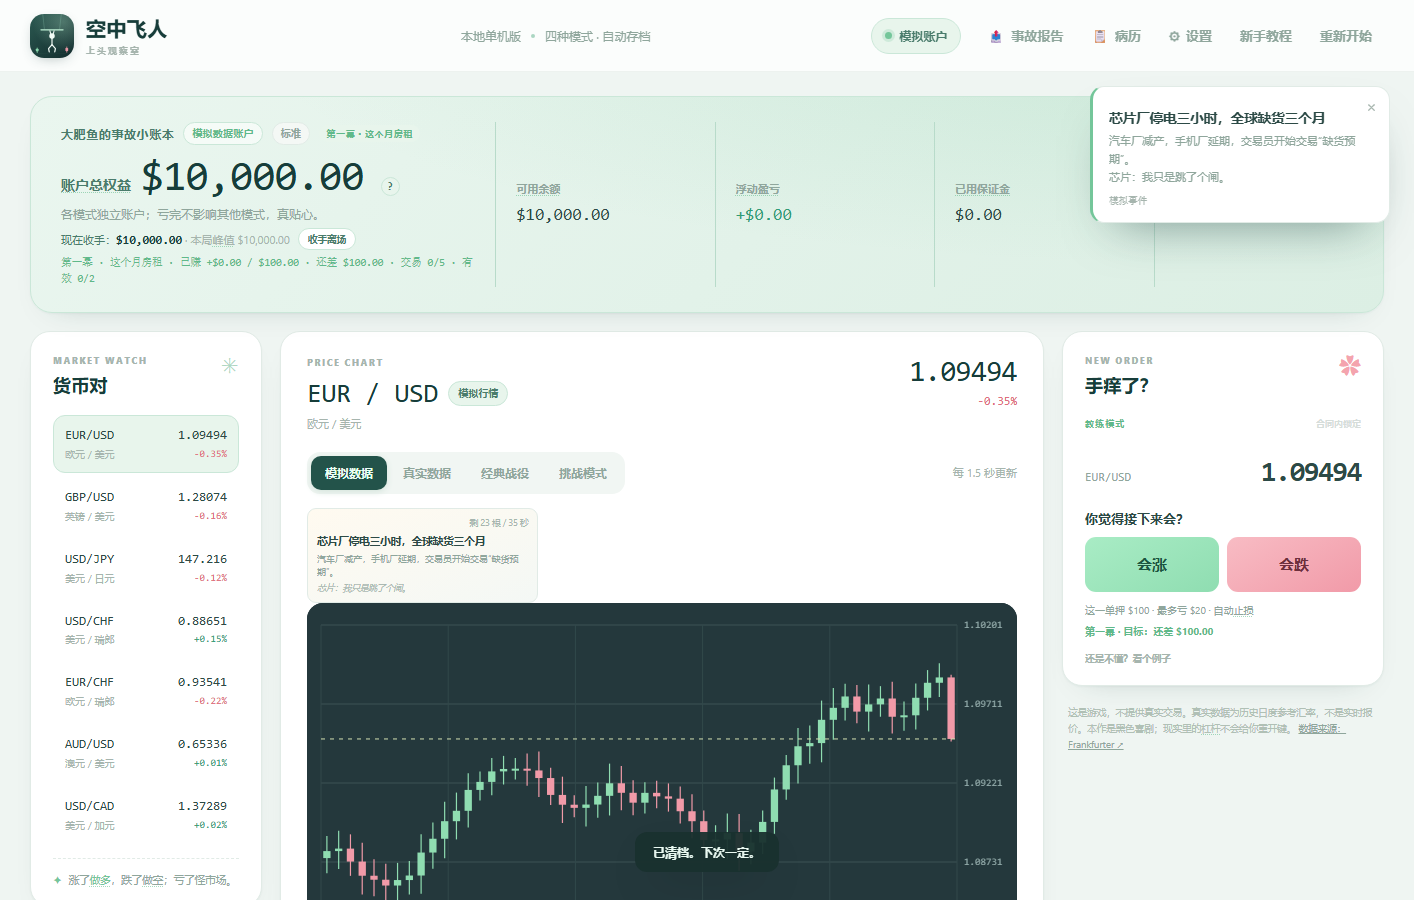
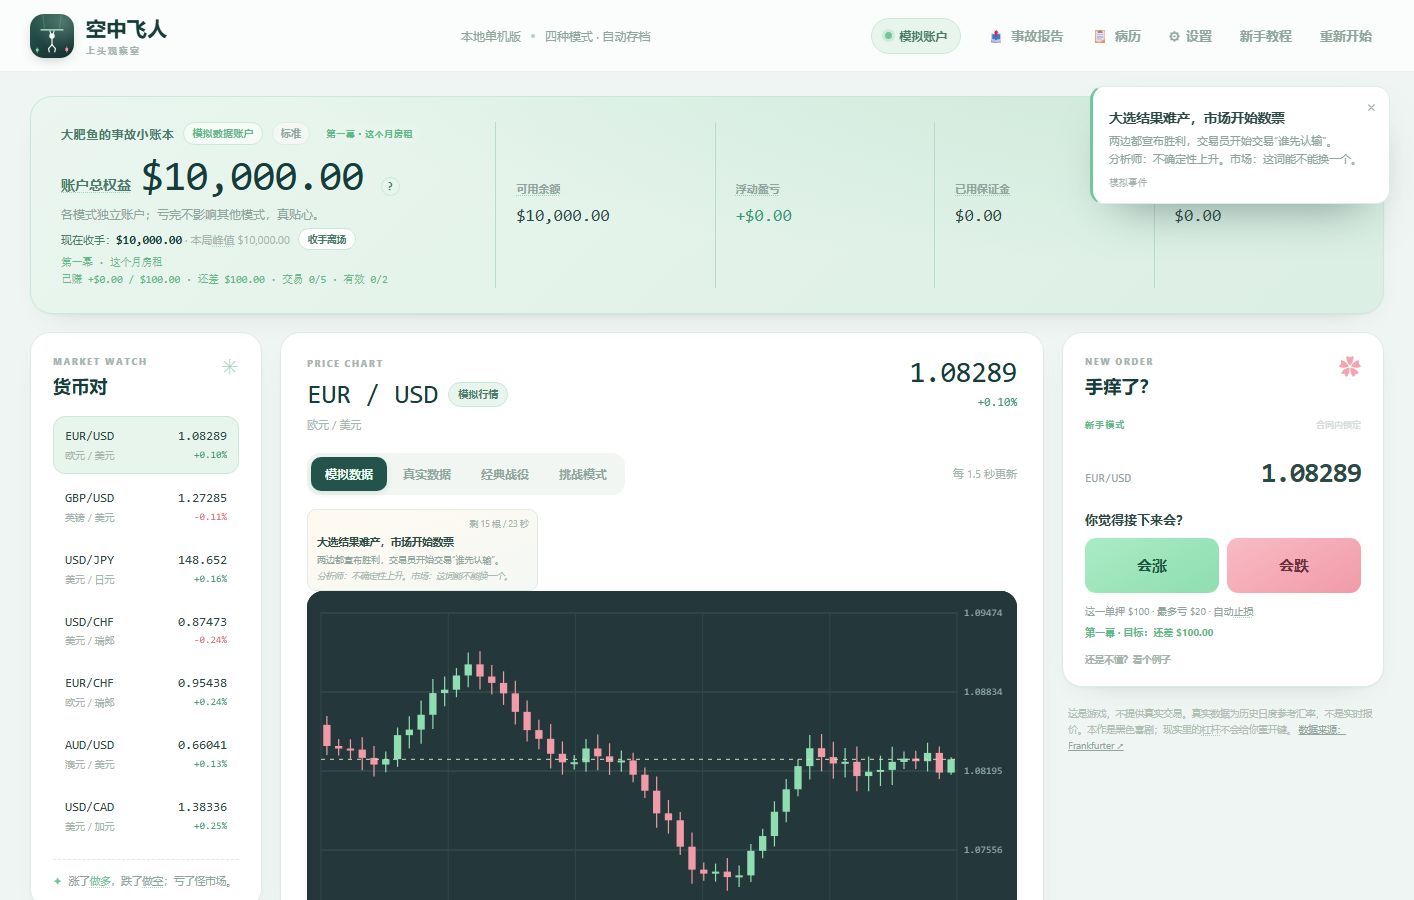
Add novice and hard difficulty modes with separate target curves

diff --git a/ui.js b/ui.js
@@ -989,8 +989,8 @@
     const styles = new Set();
     standard.forEach(item => (item.playstyle || []).forEach(tag => { if (tag.id) styles.add(tag.id); }));
     $('caseStats').textContent = standard.length
-      ? `标准病历 ${standard.length} · 教练局 ${coach.length} · 最佳评级 ${best || '—'} · S ${sCount} 次 · 合同完成 ${completed} 次 · 流派 ${styles.size}/${STYLE_TOTAL}`
-      : '还没有标准病历。教练局不计入最佳评级和流派收集。';
+      ? `困难病历 ${standard.length} · 新手局 ${coach.length} · 最佳评级 ${best || '—'} · S ${sCount} 次 · 合同完成 ${completed} 次 · 流派 ${styles.size}/${STYLE_TOTAL}`
+      : '还没有困难病历。新手局不计入最佳评级和流派收集。';
     if ($('caseCount')) $('caseCount').textContent = all.length;
     [...$('casesFilter').children].forEach(btn => btn.classList.toggle('active', btn.dataset.mode === casesFilter));
     $('casesClear').disabled = all.length === 0;
@@ -1011,7 +1011,7 @@
       card.tabIndex = 0;
       card.innerHTML = `<div class="case-top"><span>${formatCaseDate(item.date)}</span><span class="case-badge ${item.reason || 'cashout'}">${reason}</span></div>
         <div class="case-title"><span>${mode} · ${safety}</span><em class="${item.equity >= 0 ? 'positive' : 'negative'}">${D.money(item.equity)}</em></div>
-        <div class="case-meta">峰值 ${D.money(item.peak)} · 回撤 ${D.money(item.drawdown)} · 诊断：${item.diagnosis || '未记录'}${item.contractTitle ? ` · ${item.contractTitle}${item.contractDone ? ' ✓' : ''}` : ''}${item.environmentTitle ? ` · 环境：${item.environmentTitle}` : ''}${item.coachMode ? ' · 教练局' : ''}${item.playstyle?.length ? ` · 流派：${item.playstyle.map(tag => tag.label).join(' / ')}` : ''}${item.endingTitle ? ` · 结局：${item.endingTitle}` : ''}</div>
+        <div class="case-meta">峰值 ${D.money(item.peak)} · 回撤 ${D.money(item.drawdown)} · 诊断：${item.diagnosis || '未记录'}${item.contractTitle ? ` · ${item.contractTitle}${item.contractDone ? ' ✓' : ''}` : ''}${item.environmentTitle ? ` · 环境：${item.environmentTitle}` : ''}${item.coachMode ? ' · 新手局' : ''}${item.playstyle?.length ? ` · 流派：${item.playstyle.map(tag => tag.label).join(' / ')}` : ''}${item.endingTitle ? ` · 结局：${item.endingTitle}` : ''}</div>
         <div class="case-detail"></div>`;
       const eventLines = (item.events || []).map(event => {
         const effects = [];
@@ -1112,7 +1112,9 @@
     if (!contracts.length) return;
     contractIndex = Math.max(0, Math.min(contracts.length - 1, contractIndex));
     const item = contracts[contractIndex];
-    const goalText = E.settings.coachMode && item.coachGoalText ? item.coachGoalText : item.goalText;
+    const goalText = E.settings.coachMode
+      ? (item.coachGoalText || item.goalText)
+      : (item.hardGoalText || item.goalText);
     const card = document.createElement('div');
     card.className = `contract-card ${item.tone || ''}`;
     card.innerHTML = `<span class="contract-kicker">${item.kicker}</span>
@@ -1249,10 +1251,11 @@
     (D.ENVIRONMENTS || []).forEach(env => {
       let targetText = '';
       if (base.goalType === 'profit') {
-        targetText = `目标：净赚 ${D.money(Math.round((base.targetProfit || 0) * env.targetMultiplier))}`;
+        const baseTarget = base.hardTargetProfit ?? base.targetProfit ?? 0;
+        targetText = `目标：净赚 ${D.money(Math.round(baseTarget * env.targetMultiplier))}`;
       } else if (base.goalType === 'debt') {
         const startEquity = 10000 - (base.startDebt || 0);
-        const target = Math.round(startEquity + ((base.targetEquity || startEquity) - startEquity) * env.targetMultiplier);
+        const target = Math.round(startEquity + ((base.hardTargetEquity ?? base.targetEquity ?? startEquity) - startEquity) * env.targetMultiplier);
         targetText = `目标：权益 ${D.money(target)}`;
       }
       const card = document.createElement('div');
@@ -1536,12 +1539,16 @@
     const s = E.settings;
     $('nicknameInput').value = s.nickname || '大肥鱼';
     $('advancedToggle').checked = !!s.advancedTrading;
-    $('coachToggle').checked = !!s.coachMode;
     const settingsLocked = coachLocked();
-    $('coachToggle').disabled = settingsLocked;
+    [...$('gameModeSeg').children].forEach(btn => {
+      btn.classList.toggle('active', btn.dataset.gameMode === (s.coachMode ? 'novice' : 'hard'));
+      btn.disabled = settingsLocked;
+    });
     $('coachSettingHint').textContent = settingsLocked
       ? '合同进行中已锁定；收手或结束后再切换'
-      : '只保留涨/跌，自动押 $100、5×，自动止损止盈';
+      : s.coachMode
+        ? '新手模式：只看涨/跌，固定 $100/5×，目标更低，跳过环境/商店'
+        : '困难模式：完整下单、环境、三幕、商店，合同目标更高';
     $('sfxToggle').checked = s.sfxOn;
     $('sfxVolume').value = s.sfxVol;
     $('musicToggle').checked = s.musicOn;
@@ -1899,15 +1906,18 @@
       renderOrder();
       toast(event.target.checked ? '进阶交易已开启：下单时可以填止损/止盈。' : '进阶交易已关闭。');
     });
-    $('coachToggle').addEventListener('change', event => {
+    $('gameModeSeg').addEventListener('click', event => {
+      const btn = event.target.closest('button[data-game-mode]');
+      if (!btn) return;
       if (coachLocked()) {
-        event.target.checked = !!E.settings.coachMode;
-        toast('合同进行中，教练模式已锁定。');
+        toast('合同进行中，难度模式已锁定；收手或结束后再切换。');
         return;
       }
-      E.saveSettings({ coachMode: event.target.checked });
+      const novice = btn.dataset.gameMode === 'novice';
+      E.saveSettings({ coachMode: novice });
       render();
-      toast(event.target.checked ? '教练模式已开启：只保留涨/跌。' : '已切回完整界面。');
+      renderSettingsControls();
+      toast(novice ? '已切换到新手模式。' : '已切换到困难模式。');
     });
     $('sfxToggle').addEventListener('change', event => {
       E.saveSettings({ sfxOn: event.target.checked });

diff --git a/index.html b/index.html
@@ -143,7 +143,7 @@
           <section class="panel order-panel">
             <div class="panel-heading"><div><span class="section-kicker">NEW ORDER</span><h2>手痒了？</h2></div><span class="order-decoration" aria-hidden="true">✿</span></div>
             <div id="coachOrder" class="coach-order hidden">
-              <div class="coach-head"><span>教练模式</span><button id="coachExit" class="text-button" type="button">切回完整界面</button></div>
+              <div class="coach-head"><span>新手模式</span><button id="coachExit" class="text-button" type="button">切回完整界面</button></div>
               <div class="coach-price-row"><span id="coachPair">EUR / USD</span><strong id="coachPrice">—</strong></div>
               <p id="coachQuestion" class="coach-question">你觉得接下来会？</p>
               <div class="coach-actions">
@@ -313,7 +313,7 @@
         <div class="settings-row"><div class="settings-label">音乐音量</div><input id="musicVolume" class="vol-slider" type="range" min="0" max="100" step="1"></div>
         <div class="settings-row settings-col"><div class="settings-label">导入本地音乐<small id="musicStatus">尚未导入音乐（音频仅保存在本机浏览器）</small></div><div class="music-actions"><label class="outline-button music-file-btn" for="musicFile">选择文件<input id="musicFile" type="file" accept="audio/*"></label><button id="musicPreviewBtn" class="outline-button" type="button">试听</button><button id="musicClearBtn" class="outline-button" type="button">清除</button></div></div>
         <hr class="settings-divider">
-        <div class="settings-row"><div class="settings-label">教练模式<small id="coachSettingHint">只保留涨/跌，自动押 $100、5×，自动止损止盈</small></div><label class="switch"><input id="coachToggle" type="checkbox"><span class="slider"></span></label></div>
+        <div class="settings-row"><div class="settings-label">难度模式<small id="coachSettingHint">新手模式：只看涨/跌，固定 $100/5×，目标更低</small></div><div class="seg-mini" id="gameModeSeg" role="group" aria-label="新手或困难模式"><button type="button" data-game-mode="novice">新手模式</button><button type="button" data-game-mode="hard">困难模式</button></div></div>
         <div class="settings-row"><div class="settings-label">市场新闻<small>跑马灯与滑入快讯，关闭后不再生成模拟新闻</small></div><label class="switch"><input id="newsToggle" type="checkbox"><span class="slider"></span></label></div>
         <div class="settings-row"><div class="settings-label">新闻频率</div><div class="seg-mini" id="newsFreqSeg" role="group" aria-label="新闻频率"><button type="button" data-freq="low">低</button><button type="button" data-freq="mid">中</button><button type="button" data-freq="high">高</button></div></div>
         <hr class="settings-divider">

diff --git a/data.js b/data.js
@@ -274,8 +274,8 @@
     { id: 'freefall', name: '自由落体', desc: '账户权益比初始资金少了 $100,000。', hint: '权益比 $10,000 低十万' },
     { id: 'retire', name: '金盆洗手', desc: '完成一次每日挑战并结算成绩。', hint: '开始并结束一次挑战' },
     { id: 'last-word', name: '最后一次', desc: '第 10 次按下「最后一把，回本就走」。', hint: '把「最后一次」按满十次' },
-    { id: 'grade-s', name: 'S 级事故', desc: '在标准模式拿到一次合同 S 评级。', hint: '完成合同，少交易、低回撤' },
-    { id: 'style-collector', name: '流派收集者', desc: '在病历里集齐 5 种不同的本局流派。', hint: '换几种打法完成标准合同' }
+    { id: 'grade-s', name: 'S 级事故', desc: '在困难模式拿到一次合同 S 评级。', hint: '完成合同，少交易、低回撤' },
+    { id: 'style-collector', name: '流派收集者', desc: '在病历里集齐 5 种不同的本局流派。', hint: '换几种打法完成困难合同' }
   ];
 
   const LOAN_MAX = 200000;
@@ -347,6 +347,7 @@
       goalText: '净赚 $500 后收手。', limitText: '最多 5 笔交易',
       specialText: '本合同不开放借款。', goalType: 'profit', targetProfit: 500, maxTrades: 5, noLoans: true,
       coachTargetProfit: 100, coachGoalText: '净赚 $100 后收手。',
+      hardTargetProfit: 800, hardGoalText: '净赚 $800 后收手。',
       events: [
         {
           id: 'rent-1', at: 1, act: 1, title: '房东第三次「在吗」',
@@ -380,6 +381,7 @@
       goalText: '还清 $3,000 贷款，并让权益达到 $7,500。', limitText: '最多 10 笔交易',
       specialText: '初始负债 $3,000；不开放新增借款。', goalType: 'debt', startDebt: 3000, targetEquity: 7500, maxTrades: 10, noLoans: true,
       coachTargetEquity: 7200, coachGoalText: '还清 $3,000 贷款，并让权益达到 $7,200。',
+      hardTargetEquity: 8000, hardGoalText: '还清 $3,000 贷款，并让权益达到 $8,000。',
       events: [
         {
           id: 'debt-1', at: 2, act: 1, title: '最后提醒',
@@ -413,6 +415,7 @@
       goalText: '净赚 $1,500 后收手。', limitText: '最多 8 笔交易',
       specialText: '初始现金 $6,000；不开放借款。', goalType: 'profit', startCash: 6000, targetProfit: 1500, maxTrades: 8, noLoans: true,
       coachTargetProfit: 200, coachGoalText: '净赚 $200 后收手。',
+      hardTargetProfit: 3000, hardGoalText: '净赚 $3,000 后收手。',
       events: [
         {
           id: 'layoff-1', at: 1, act: 1, title: 'HR 约谈',

diff --git a/engine.js b/engine.js
@@ -336,6 +336,10 @@
       if (baseConfig.coachTargetProfit != null) config.targetProfit = baseConfig.coachTargetProfit;
       if (baseConfig.coachTargetEquity != null) config.targetEquity = baseConfig.coachTargetEquity;
       if (baseConfig.coachGoalText) config.goalText = baseConfig.coachGoalText;
+    } else {
+      if (baseConfig.hardTargetProfit != null) config.targetProfit = baseConfig.hardTargetProfit;
+      if (baseConfig.hardTargetEquity != null) config.targetEquity = baseConfig.hardTargetEquity;
+      if (baseConfig.hardGoalText) config.goalText = baseConfig.hardGoalText;
     }
     state.cash = Number(config.startCash) || 10000;
     state.debt = 0;

diff --git a/README.md b/README.md
@@ -53,9 +53,9 @@ node server.js
 
 ![新手练习](screenshots/onboarding-practice.png)
 
-## 教练模式
+## 新手模式（教练模式）
 
-默认开启。只保留一个决定：
+默认进入新手模式。只保留一个决定：
 
 > 你觉得会涨，还是会跌？
 
@@ -64,19 +64,27 @@ node server.js
 - 自动止盈：赚约 $40 落袋；
 - 不显示保证金、杠杆、名义仓位、手续费、借款、持仓表；
 - 房租/还债/裁员的目标降为 $100 / $7,200 权益 / $200；
-- 合同开始后教练模式锁定，不能中途切回完整界面换工具；
-- 点「切回完整界面」或设置里的开关，可以恢复完整下单区。
-
-教练模式不改变市场规则，只是把第一次游玩的认知负担降下来。
-
-- 合同内教练模式锁定，不能中途切回完整界面；
+- 合同开始后新手模式锁定，不能中途切回完整界面换工具；
 - 教练结算只显示合同、结局和最终权益，不显示峰值、回撤和评级。
 
-![教练模式](screenshots/coach-mode.png)
+新手模式不改变市场规则，只是把第一次游玩的认知负担降下来。
 
-## 市场环境（标准模式）
+## 难度模式
 
-签合同后，标准模式会先选一个市场环境：
+设置里可以切换：
+
+| 模式 | 下单 | 环境 / 商店 | 合同目标 |
+|---|---|---|---|
+| 新手模式 | 只看涨/跌，固定 $100 / 5× | 跳过 | $100 / $7,200 / $200 |
+| 困难模式 | 完整保证金、杠杆、进阶交易 | 完整 | $800 / $8,000 / $3,000 |
+
+合同进行中不能切换难度；收手或结束后再回设置里改。
+
+![新手模式](screenshots/coach-mode.png)
+
+## 市场环境（困难模式）
+
+签合同后，困难模式会先选一个市场环境：
 
 | 环境 | 影响 | 额外规则 |
 |---|---|---|
@@ -84,7 +92,7 @@ node server.js
 | 央行周 | 重大事件更多、波动 ×1.25、合同目标 +15% | 完成合同后评级 +1 档 |
 | 传闻周 | 整活/传闻更多、波动 ×1.05、目标不变 | 第一件商店商品半价 |
 
-环境会影响新闻频率、行情波动和合同目标；教练模式跳过这一层。
+环境会影响新闻频率、行情波动和合同目标；新手模式跳过这一层。
 
 ![市场环境](screenshots/environment.png)
 
@@ -110,7 +118,7 @@ node server.js
 
 ## 幕间情报商店
 
-每幕事件结束后，标准模式会进入一次商店：
+每幕事件结束后，困难模式会进入一次商店：
 
 | 商品 | 价格 | 效果 |
 |---|---:|---|
@@ -120,7 +128,7 @@ node server.js
 
 可以买一件，也可以直接跳过。买东西会直接扣现金，所以会抬高完成合同的难度。
 
-教练模式跳过商店，保持只有涨/跌。
+新手模式跳过商店，保持只有涨/跌。
 
 ![幕间情报商店](screenshots/shop.png)
 
@@ -145,25 +153,25 @@ node server.js
 - **B / C**：未完成，但权益没有穿仓
 - **D**：破产
 
-流派只在标准模式结算，教练模式保持简单。
+流派只在困难模式结算，新手模式保持简单。
 
 ![本局流派](screenshots/playstyle.png)
 
 ## 病历统计与长期反馈
 
-病历库会汇总标准局：
+病历库会汇总困难局：
 
-- 标准病历数 / 教练局数；
+- 困难病历数 / 新手局数；
 - 最佳评级；
 - S 评级次数；
 - 合同完成次数；
 - 已收集流派 X / 7。
 
-只有模拟模式的标准局计入；教练局、真实数据、战役和每日挑战单独统计或排除。
+只有模拟模式的困难局计入；新手局、真实数据、战役和每日挑战单独统计或排除。
 
 新增两个长期成就：
 
-- **S 级事故**：标准模式拿到一次 S 评级；
+- **S 级事故**：困难模式拿到一次 S 评级；
 - **流派收集者**：集齐 5 种不同的本局流派。
 
 ## 怎么赚钱（大白话）
@@ -262,12 +270,12 @@ node server.js
 
 进入模拟模式后，先签一份合同，或者选自由模式。合同只在模拟模式生效。
 
-| 合同 | 目标 | 限制 |
-|---|---|---|
-| 自由模式 | 没有目标 | 规则照旧 |
-| 这个月房租 | 净赚 $500 | 最多 5 笔交易，不开放借款 |
-| 还清肥鱼信贷 | 还清 $3,000，并让权益达到 $7,500 | 最多 10 笔交易，初始负债 $3,000 |
-| 被裁员的第 30 天 | 净赚 $1,500 | 初始现金 $6,000，最多 8 笔交易，不开放借款 |
+| 合同 | 新手目标 | 困难目标 | 限制 |
+|---|---|---|---|
+| 自由模式 | 没有目标 | 没有目标 | 规则照旧 |
+| 这个月房租 | 净赚 $100 | 净赚 $800 | 最多 5 笔交易，不开放借款 |
+| 还清肥鱼信贷 | 权益 $7,200 | 权益 $8,000 | 最多 10 笔交易，初始负债 $3,000 |
+| 被裁员的第 30 天 | 净赚 $200 | 净赚 $3,000 | 初始现金 $6,000，最多 8 笔交易，不开放借款 |
 
 合同选择改成一次只显示一张，用「上一份 / 下一份」翻页，手机上不用再滚四张大卡。
 
